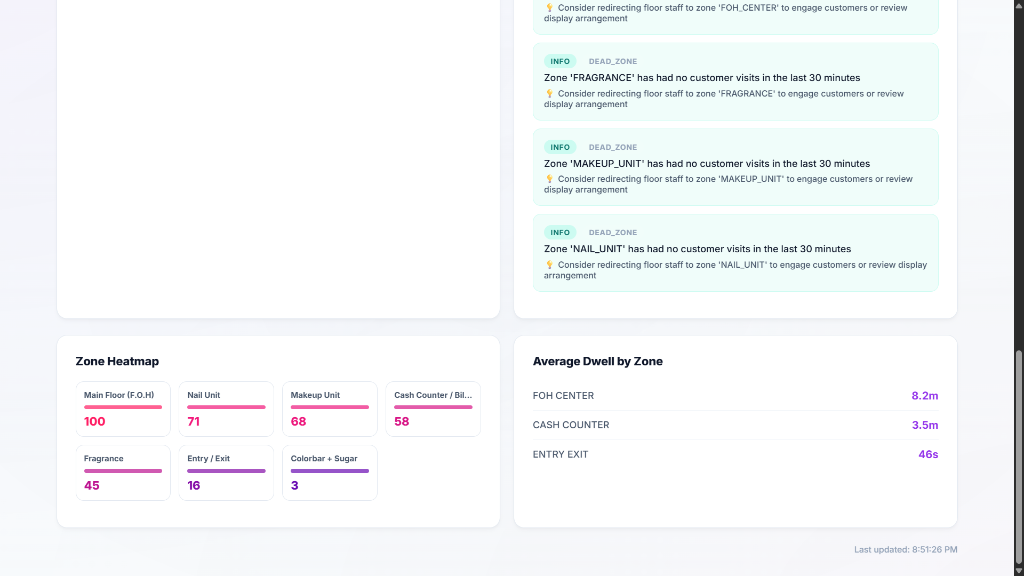
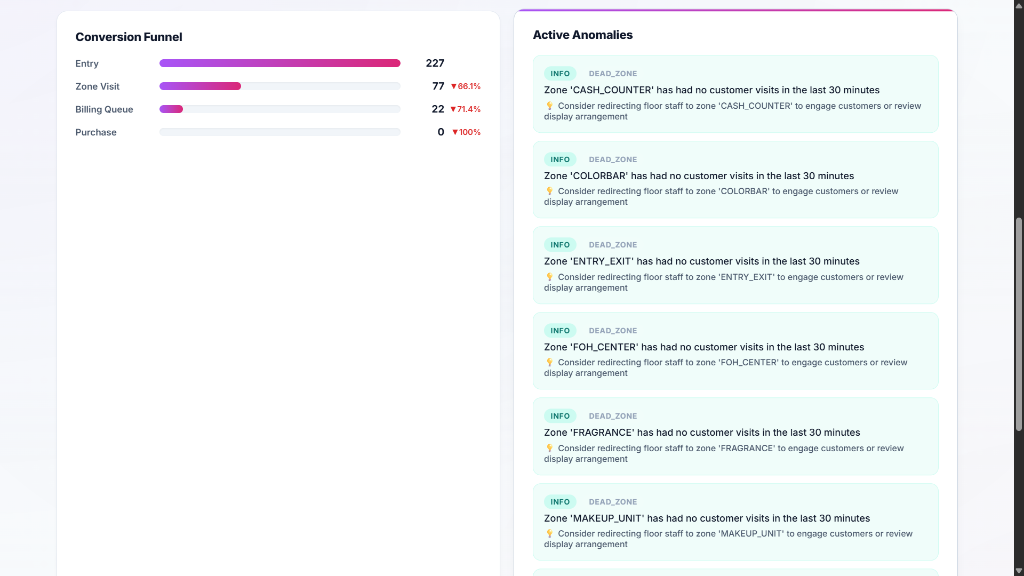
Update dashboard screenshots and fix jsonl flush

diff --git a/pipeline/detect.py b/pipeline/detect.py
@@ -434,7 +434,7 @@ def _emit_and_log(emitter: EventEmitter, jsonl_file, event_kind: str, **kwargs) 
             "is_staff": kwargs.get("is_staff"),
         }
         jsonl_file.write(json.dumps(entry) + "\n")
-
+        jsonl_file.flush()
 
 # ---------------------------------------------------------------------------
 # CLI entry point
